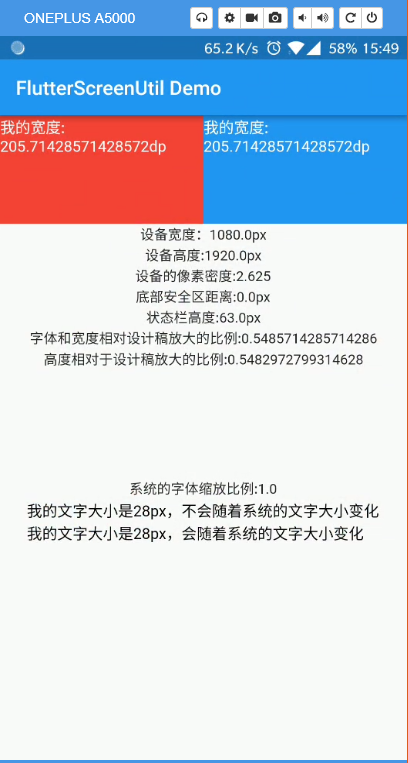
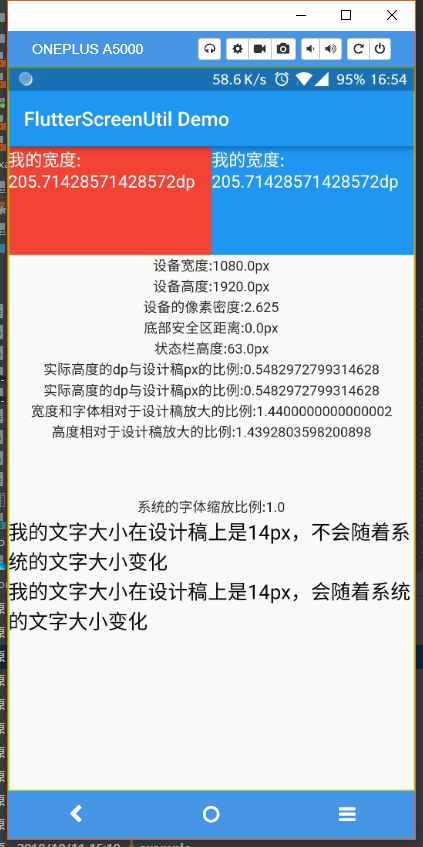
0.4.0优化字体适配方法

diff --git a/example/lib/main_zh.dart b/example/lib/main_zh.dart
@@ -39,10 +39,14 @@ class _MyHomePageState extends State<MyHomePage> {
         '底部安全区距离:${ScreenUtil.bottomBarHeight}'); //Bottom safe zone distance，suitable for buttons with full screen
     print(
         '状态栏高度:${ScreenUtil.statusBarHeight}px'); //Status bar height , Notch will be higher Unit px
+
+    print('实际宽度的dp与设计稿px的比例:${ScreenUtil().scaleWidth}');
+    print('实际高度的dp与设计稿px的比例:${ScreenUtil().scaleHeight}');
+
     print(
-        '实际宽度的dp与设计稿px的比例:${ScreenUtil().scaleWidth * ScreenUtil.pixelRatio}'); //The width is enlarged relative to the design draft
+        '宽度和字体相对于设计稿放大的比例:${ScreenUtil().scaleWidth * ScreenUtil.pixelRatio}');
     print(
-        '实际高度的dp与设计稿px的比例:${ScreenUtil().scaleHeight * ScreenUtil.pixelRatio}'); //The height is enlarged relative to the design draft
+        '高度相对于设计稿放大的比例:${ScreenUtil().scaleHeight * ScreenUtil.pixelRatio}');
     print('系统的字体缩放比例:${ScreenUtil.textScaleFactory}');
 
     return new Scaffold(
@@ -62,8 +66,9 @@ class _MyHomePageState extends State<MyHomePage> {
                   child: Text(
                     '我的宽度:${ScreenUtil().setWidth(375)}dp',
                     style: TextStyle(
-                        color: Colors.white,
-                        fontSize: ScreenUtil().setSp(28, false)),
+                      color: Colors.white,
+                      fontSize: ScreenUtil().setSp(12, false),
+                    ),
                   ),
                 ),
                 Container(
@@ -72,8 +77,9 @@ class _MyHomePageState extends State<MyHomePage> {
                   color: Colors.blue,
                   child: Text('我的宽度:${ScreenUtil().setWidth(375)}dp',
                       style: TextStyle(
-                          color: Colors.white,
-                          fontSize: ScreenUtil().setSp(28, false))),
+                        color: Colors.white,
+                        fontSize: ScreenUtil().setSp(12, false),
+                      )),
                 ),
               ],
             ),
@@ -83,25 +89,33 @@ class _MyHomePageState extends State<MyHomePage> {
             Text('底部安全区距离:${ScreenUtil.bottomBarHeight}px'),
             Text('状态栏高度:${ScreenUtil.statusBarHeight}px'),
             Text(
-              '实际宽度的dp与设计稿px的比例:${ScreenUtil().scaleWidth * ScreenUtil.pixelRatio}',
+              '实际高度的dp与设计稿px的比例:${ScreenUtil().scaleHeight}',
               textAlign: TextAlign.center,
             ),
             Text(
-              '实际高度的dp与设计稿px的比例:${ScreenUtil().scaleHeight * ScreenUtil.pixelRatio}',
+              '实际高度的dp与设计稿px的比例:${ScreenUtil().scaleHeight}',
+              textAlign: TextAlign.center,
+            ),
+            Text(
+              '宽度和字体相对于设计稿放大的比例:${ScreenUtil().scaleWidth * ScreenUtil.pixelRatio}',
+              textAlign: TextAlign.center,
+            ),
+            Text(
+              '高度相对于设计稿放大的比例:${ScreenUtil().scaleHeight * ScreenUtil.pixelRatio}',
               textAlign: TextAlign.center,
             ),
             SizedBox(
-              height: ScreenUtil().setHeight(200),
+              height: ScreenUtil().setHeight(100),
             ),
             Text('系统的字体缩放比例:${ScreenUtil.textScaleFactory}'),
             Column(
               crossAxisAlignment: CrossAxisAlignment.start,
               children: <Widget>[
-                Text('我的文字大小是14px，不会随着系统的文字大小变化',
+                Text('我的文字大小在设计稿上是14px，不会随着系统的文字大小变化',
                     style: TextStyle(
                         color: Colors.black,
                         fontSize: ScreenUtil().setSp(14, false))),
-                Text('我的文字大小是14px，会随着系统的文字大小变化',
+                Text('我的文字大小在设计稿上是14px，会随着系统的文字大小变化',
                     style: TextStyle(
                         color: Colors.black, fontSize: ScreenUtil().setSp(14))),
               ],

diff --git a/example/lib/main.dart b/example/lib/main.dart
@@ -41,9 +41,13 @@ class _MyHomePageState extends State<MyHomePage> {
     print(
         'Status bar height:${ScreenUtil.statusBarHeight}px'); //Status bar height , Notch will be higher Unit px
     print(
-        'Ratio of actual width dp to design draft px:${ScreenUtil().scaleWidth * ScreenUtil.pixelRatio}'); //The width is enlarged relative to the design draft
+        'Ratio of actual width dp to design draft px:${ScreenUtil().scaleWidth}');
     print(
-        'Ratio of actual height dp to design draft px:${ScreenUtil().scaleHeight * ScreenUtil.pixelRatio}'); //The height is enlarged relative to the design draft
+        'Ratio of actual height dp to design draft px:${ScreenUtil().scaleHeight}');
+    print(
+        'The ratio of font and width to the size of the design:${ScreenUtil().scaleWidth * ScreenUtil.pixelRatio}');
+    print(
+        'The ratio of  height width to the size of the design:${ScreenUtil().scaleHeight * ScreenUtil.pixelRatio}');
     return new Scaffold(
       appBar: new AppBar(
         title: new Text(widget.title),
@@ -82,6 +86,14 @@ class _MyHomePageState extends State<MyHomePage> {
             Text('Bottom safe zone distance:${ScreenUtil.bottomBarHeight}px'),
             Text('Status bar height:${ScreenUtil.statusBarHeight}px'),
             Text(
+              'Ratio of actual width dp to design draft px:${ScreenUtil().scaleWidth}',
+              textAlign: TextAlign.center,
+            ),
+            Text(
+              'Ratio of actual height dp to design draft px:${ScreenUtil().scaleHeight}',
+              textAlign: TextAlign.center,
+            ),
+            Text(
               'The ratio of font and width to the size of the design:${ScreenUtil().scaleWidth * ScreenUtil.pixelRatio}',
               textAlign: TextAlign.center,
             ),
@@ -90,7 +102,7 @@ class _MyHomePageState extends State<MyHomePage> {
               textAlign: TextAlign.center,
             ),
             SizedBox(
-              height: ScreenUtil().setHeight(200),
+              height: ScreenUtil().setHeight(100),
             ),
             Text('System font scaling factor:${ScreenUtil.textScaleFactory}'),
             Column(

diff --git a/README_CN.md b/README_CN.md
@@ -99,10 +99,14 @@ import 'package:flutter_screenutil/flutter_screenutil.dart';
         '底部安全区距离:${ScreenUtil.bottomBarHeight}'); //Bottom safe zone distance，suitable for buttons with full screen
     print(
         '状态栏高度:${ScreenUtil.statusBarHeight}px'); //Status bar height , Notch will be higher Unit px
+
+    print('实际宽度的dp与设计稿px的比例:${ScreenUtil().scaleWidth}');
+    print('实际高度的dp与设计稿px的比例:${ScreenUtil().scaleHeight}');
+
     print(
-        '实际宽度的dp与设计稿px的比例:${ScreenUtil().scaleWidth * ScreenUtil.pixelRatio}'); //The width is enlarged relative to the design draft
+        '宽度和字体相对于设计稿放大的比例:${ScreenUtil().scaleWidth * ScreenUtil.pixelRatio}'); 
     print(
-        '实际高度的dp与设计稿px的比例:${ScreenUtil().scaleHeight * ScreenUtil.pixelRatio}'); //The height is enlarged relative to the design draft
+        '高度相对于设计稿放大的比例:${ScreenUtil().scaleHeight * ScreenUtil.pixelRatio}'); 
     print('系统的字体缩放比例:${ScreenUtil.textScaleFactory}');
 
     return new Scaffold(
@@ -122,8 +126,9 @@ import 'package:flutter_screenutil/flutter_screenutil.dart';
                   child: Text(
                     '我的宽度:${ScreenUtil().setWidth(375)}dp',
                     style: TextStyle(
-                        color: Colors.white,
-                        fontSize: ScreenUtil().setSp(28, false)),
+                      color: Colors.white,
+                      fontSize: ScreenUtil().setSp(12, false),
+                    ),
                   ),
                 ),
                 Container(
@@ -132,8 +137,9 @@ import 'package:flutter_screenutil/flutter_screenutil.dart';
                   color: Colors.blue,
                   child: Text('我的宽度:${ScreenUtil().setWidth(375)}dp',
                       style: TextStyle(
-                          color: Colors.white,
-                          fontSize: ScreenUtil().setSp(28, false))),
+                        color: Colors.white,
+                        fontSize: ScreenUtil().setSp(12, false),
+                      )),
                 ),
               ],
             ),
@@ -143,25 +149,33 @@ import 'package:flutter_screenutil/flutter_screenutil.dart';
             Text('底部安全区距离:${ScreenUtil.bottomBarHeight}px'),
             Text('状态栏高度:${ScreenUtil.statusBarHeight}px'),
             Text(
-              '实际宽度的dp与设计稿px的比例:${ScreenUtil().scaleWidth * ScreenUtil.pixelRatio}',
+              '实际高度的dp与设计稿px的比例:${ScreenUtil().scaleHeight}',
               textAlign: TextAlign.center,
             ),
             Text(
-              '实际高度的dp与设计稿px的比例:${ScreenUtil().scaleHeight * ScreenUtil.pixelRatio}',
+              '实际高度的dp与设计稿px的比例:${ScreenUtil().scaleHeight}',
+              textAlign: TextAlign.center,
+            ),
+            Text(
+              '宽度和字体相对于设计稿放大的比例:${ScreenUtil().scaleWidth * ScreenUtil.pixelRatio}',
+              textAlign: TextAlign.center,
+            ),
+            Text(
+              '高度相对于设计稿放大的比例:${ScreenUtil().scaleHeight * ScreenUtil.pixelRatio}',
               textAlign: TextAlign.center,
             ),
             SizedBox(
-              height: ScreenUtil().setHeight(200),
+              height: ScreenUtil().setHeight(100),
             ),
             Text('系统的字体缩放比例:${ScreenUtil.textScaleFactory}'),
             Column(
               crossAxisAlignment: CrossAxisAlignment.start,
               children: <Widget>[
-                Text('我的文字大小是14px，不会随着系统的文字大小变化',
+                Text('我的文字大小在设计稿上是14px，不会随着系统的文字大小变化',
                     style: TextStyle(
                         color: Colors.black,
                         fontSize: ScreenUtil().setSp(14, false))),
-                Text('我的文字大小是14px，会随着系统的文字大小变化',
+                Text('我的文字大小在设计稿上是14px，会随着系统的文字大小变化',
                     style: TextStyle(
                         color: Colors.black, fontSize: ScreenUtil().setSp(14))),
               ],

diff --git a/README.md b/README.md
@@ -100,10 +100,13 @@ import 'package:flutter_screenutil/flutter_screenutil.dart';
     print(
         'Status bar height:${ScreenUtil.statusBarHeight}px'); //Status bar height , Notch will be higher Unit px
     print(
-        'The ratio of font and width to the size of the design:${ScreenUtil().scaleWidth * ScreenUtil.pixelRatio}'); //The width is enlarged relative to the design draft
+        'Ratio of actual width dp to design draft px:${ScreenUtil().scaleWidth}'); 
     print(
-        'The ratio of  height width to the size of the design:${ScreenUtil().scaleHeight * ScreenUtil.pixelRatio}'); //The height is enlarged relative to the design draft
-
+        'Ratio of actual height dp to design draft px:${ScreenUtil().scaleHeight}'); 
+    print(
+        'The ratio of font and width to the size of the design:${ScreenUtil().scaleWidth * ScreenUtil.pixelRatio}');
+    print(
+        'The ratio of  height width to the size of the design:${ScreenUtil().scaleHeight * ScreenUtil.pixelRatio}');
     return new Scaffold(
       appBar: new AppBar(
         title: new Text(widget.title),
@@ -142,6 +145,14 @@ import 'package:flutter_screenutil/flutter_screenutil.dart';
             Text('Bottom safe zone distance:${ScreenUtil.bottomBarHeight}px'),
             Text('Status bar height:${ScreenUtil.statusBarHeight}px'),
             Text(
+              'Ratio of actual width dp to design draft px:${ScreenUtil().scaleWidth}',
+              textAlign: TextAlign.center,
+            ),
+            Text(
+              'Ratio of actual height dp to design draft px:${ScreenUtil().scaleHeight}',
+              textAlign: TextAlign.center,
+            ),
+            Text(
               'The ratio of font and width to the size of the design:${ScreenUtil().scaleWidth * ScreenUtil.pixelRatio}',
               textAlign: TextAlign.center,
             ),
@@ -150,7 +161,7 @@ import 'package:flutter_screenutil/flutter_screenutil.dart';
               textAlign: TextAlign.center,
             ),
             SizedBox(
-              height: ScreenUtil().setHeight(200),
+              height: ScreenUtil().setHeight(100),
             ),
             Text('System font scaling factor:${ScreenUtil.textScaleFactory}'),
             Column(
